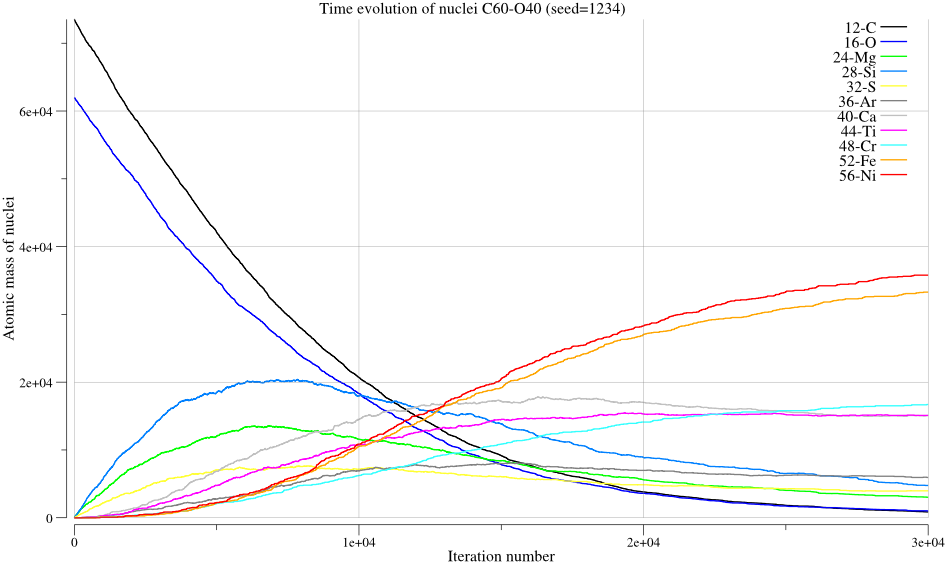
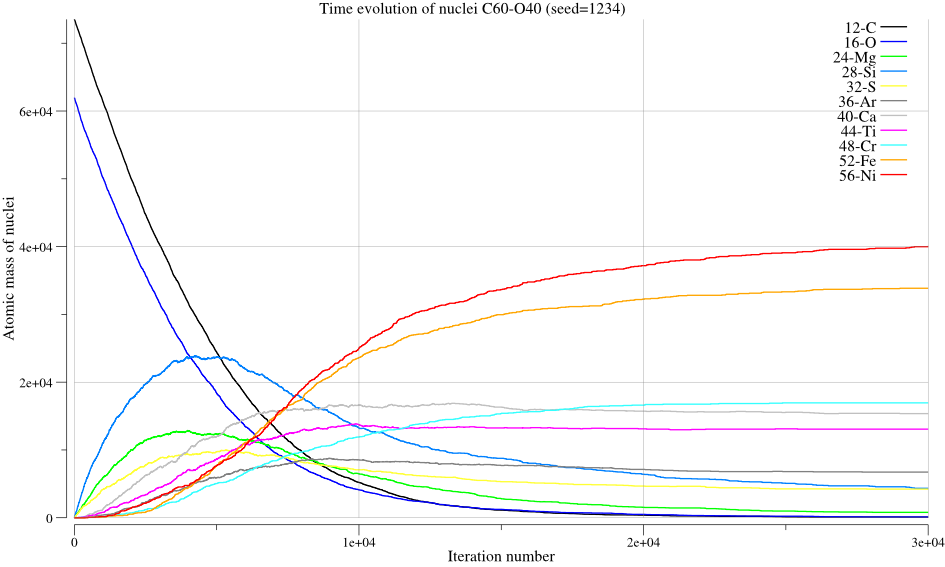
sim: implement Ni/Nj x-sections

diff --git a/sim/nucleus.go b/sim/nucleus.go
@@ -38,3 +38,50 @@ type Nuclei []Nucleus
 func (p Nuclei) Len() int           { return len(p) }
 func (p Nuclei) Less(i, j int) bool { return p[i].A < p[j].A }
 func (p Nuclei) Swap(i, j int)      { p[i], p[j] = p[j], p[i] }
+
+var (
+	nC  = Nucleus{A: 12, Z: 6}
+	nO  = Nucleus{A: 16, Z: 8}
+	nMg = Nucleus{A: 24, Z: 12}
+	nSi = Nucleus{A: 28, Z: 14}
+	nS  = Nucleus{A: 32, Z: 16}
+	nAr = Nucleus{A: 36, Z: 18}
+	nCa = Nucleus{A: 40, Z: 20}
+	nTi = Nucleus{A: 44, Z: 22}
+	nCr = Nucleus{A: 48, Z: 24}
+	nFe = Nucleus{A: 52, Z: 26}
+	nNi = Nucleus{A: 56, Z: 28}
+
+	// xsects is all the cross-sections that a sim.Engine can handle
+	xsects = map[pair]float64{
+		pair{nC, nC}:   0.8315672884,
+		pair{nO, nC}:   1,
+		pair{nO, nO}:   0.9872126376,
+		pair{nMg, nC}:  0.97267664,
+		pair{nMg, nO}:  0.965386457,
+		pair{nMg, nMg}: 0.8924961757,
+		pair{nSi, nC}:  0.7969537454,
+		pair{nSi, nO}:  0.6755141681,
+		pair{nSi, nMg}: 0.7702788102,
+		pair{nSi, nSi}: 0.6517919696,
+		pair{nS, nC}:   0.6883015304,
+		pair{nS, nO}:   0.7202932946,
+		pair{nS, nMg}:  0.8330120436,
+		pair{nAr, nC}:  0.7513868241,
+		pair{nAr, nO}:  0.7976021702,
+		pair{nCa, nC}:  0.8048923532,
+		pair{nCa, nO}:  0.8548382242,
+		pair{nTi, nC}:  0.9762778016,
+	}
+)
+
+type pair [2]Nucleus
+
+func init() {
+	for k, v := range xsects {
+		if k[0] == k[1] {
+			continue
+		}
+		xsects[pair{k[1], k[0]}] = v
+	}
+}

diff --git a/sim/engine.go b/sim/engine.go
@@ -162,7 +162,7 @@ func (e *Engine) process() error {
 		// can't fuse nuclei
 		return err
 	}
-	fuse := e.rng.Intn(10) < 5
+	fuse := e.rng.Float64() < xsects[pair{ni, nj}]
 	switch fuse {
 	case true:
 		e.nuclei[i] = o
